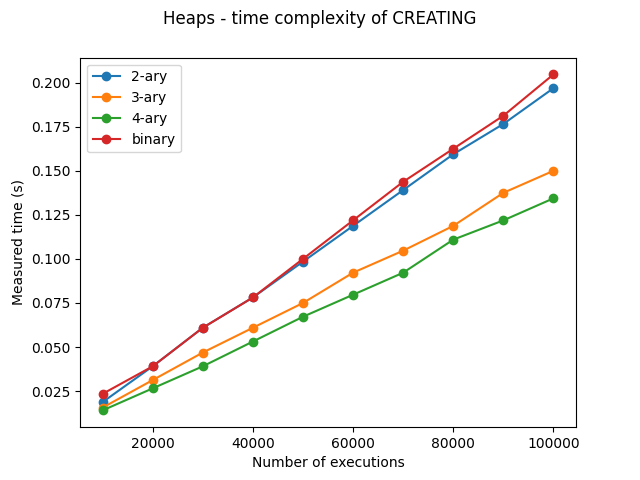
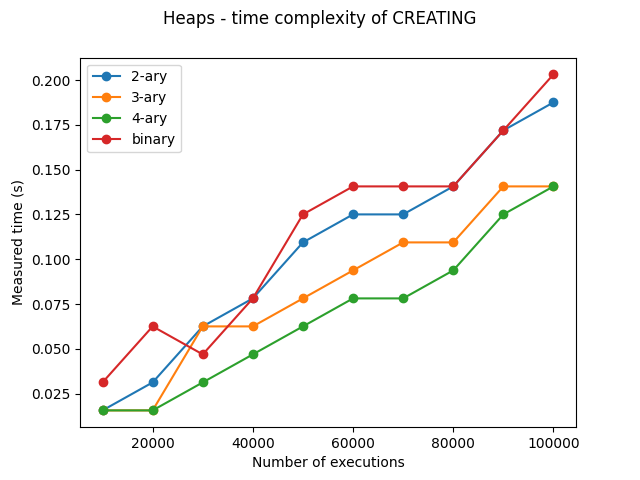
generowanie wykresow

diff --git a/kopce/main.py b/kopce/main.py
@@ -31,16 +31,16 @@ for n in checkpoints:
     new_list = list[:n]
 
     heap_binary_times[0].append(get_time_insert(heap_binary, new_list, 1))
-    heap_binary_times[1].append(get_time_delete(heap_binary, n, 5))
+    heap_binary_times[1].append(get_time_delete(heap_binary, n, 7))
 
     heap_2_times[0].append(get_time_insert(heap_2, new_list, 1))
-    heap_2_times[1].append(get_time_delete(heap_2, n, 5))
+    heap_2_times[1].append(get_time_delete(heap_2, n, 7))
 
     heap_3_times[0].append(get_time_insert(heap_3, new_list, 1))
-    heap_3_times[1].append(get_time_delete(heap_3, n, 5))
+    heap_3_times[1].append(get_time_delete(heap_3, n, 7))
 
     heap_4_times[0].append(get_time_insert(heap_4, new_list, 1))
-    heap_4_times[1].append(get_time_delete(heap_4, n, 5))
+    heap_4_times[1].append(get_time_delete(heap_4, n, 7))
     print(n, "iteration")
 
 draw_a_plot(checkpoints, heap_2_times[0], heap_3_times[0], heap_4_times[0], heap_binary_times[0], "creating")

diff --git a/kopce/binary_heap.py b/kopce/binary_heap.py
@@ -21,7 +21,7 @@ class BinaryHeap:
     
     def copy(self):
         new_heap = BinaryHeap()
-        new_heap.heap = self.heap
+        new_heap.heap = self.heap.copy()
         return new_heap
     
     #inserting

diff --git a/kopce/n_ary_heap.py b/kopce/n_ary_heap.py
@@ -84,5 +84,5 @@ class NHeap:
 
     def copy(self):
         new_heap = NHeap(self._n)
-        new_heap._heap = self._heap
+        new_heap._heap = self._heap.copy()
         return new_heap
